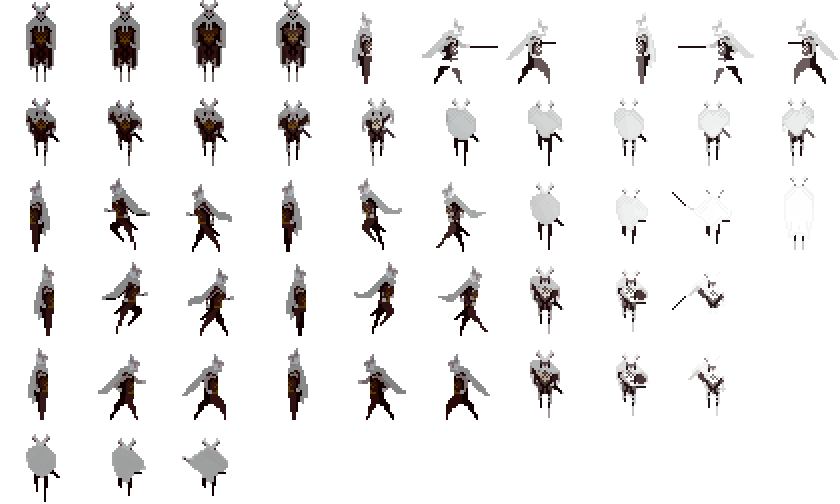
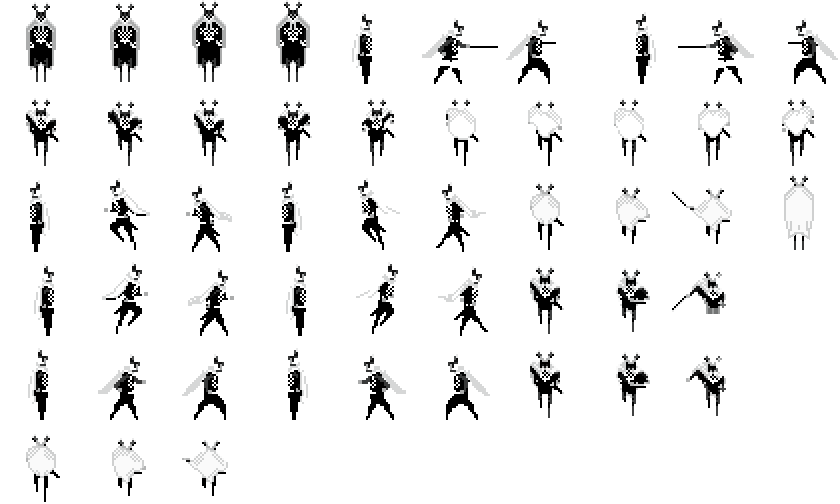
ghost texture changed

diff --git a/js/TilesFactory.js b/js/TilesFactory.js
@@ -49,7 +49,7 @@ class TilesFactory {
      * @param {Number} y
      */
     static CreatePlayer(x = 0, y = 0) {
-        let player = TilesFactory.createNPC(x, y, 33, new DrawableObject("middleground", SpriteFactory.CreateGhostKnightSprite()));
+        let player = TilesFactory.createNPC(x, y, 33, new DrawableObject("middleground", SpriteFactory.CreateTestSprite()));
         player.manager = new PlayerManager(player)
         player.type = "player"
         return player
